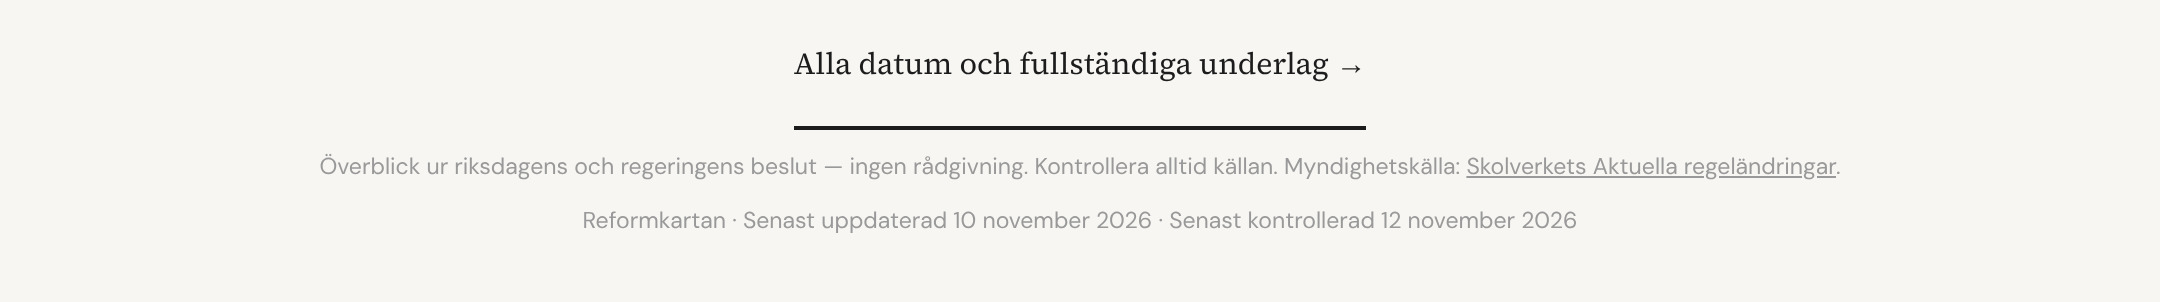
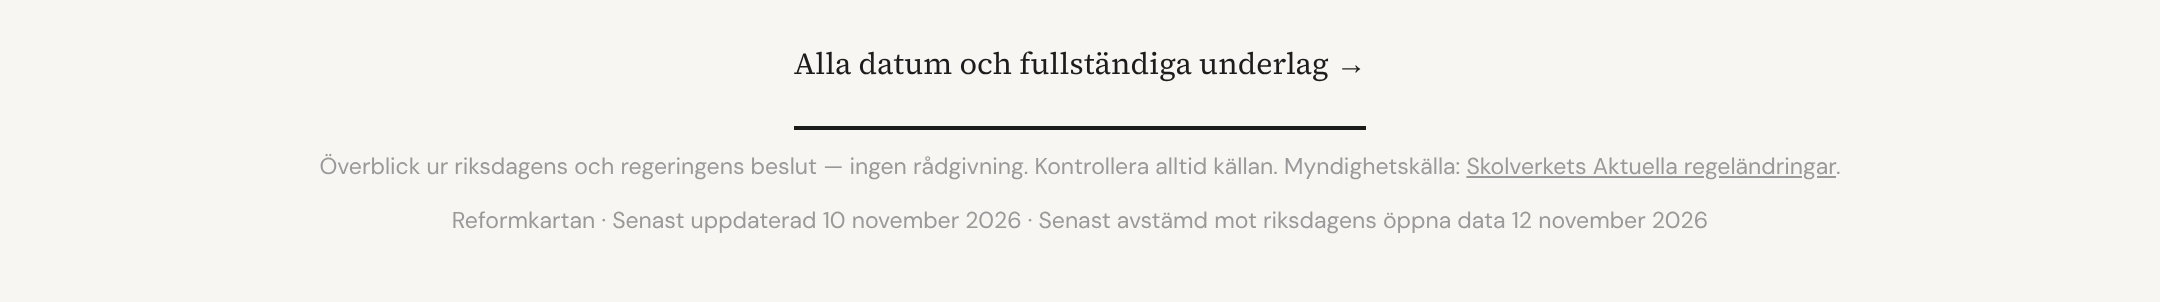
Sprint 15 T8b: uppföljningsissue vid riksdagsbeslut, accepterade matchas på typ, stämpeltext avstämd, veckorutinens bot-regel
Claude-Session: https://claude.ai/code/session_01NuE94cXGeRjKB48wbPDceU

Changed region(s): [[0.1861, 0.6854, 0.8065, 0.7748]]

diff --git a/scripts/revision/automat-github.js b/scripts/revision/automat-github.js
@@ -72,6 +72,40 @@ async function logg({ api, rapport, sha, runUrl }) {
   return nr.number;
 }
 
+// Beslut 2026-11-10 (Sprint 15, tolkning 1): varje 1a-ändring (spårad proposition → beslutad) öppnar en
+// uppföljningsissue med etiketten bevakning. Automatfilen får inte föra in SFS eller ikraftträdande (regel 2),
+// så veckorutinen gör det när lagen är utfärdad — och stänger issuen först då. Finns redan en öppen issue med
+// samma titel skapas ingen ny.
+const ETIKETT_BEVAKNING = 'bevakning';
+const uppfoljningTitel = (a) => `Uppföljning efter riksdagsbeslut: ${a.reform_namn || a.post}`;
+function uppfoljningBody(a, rapport, runUrl) {
+  const bets = (a.betankanden || []).map(b => `- bet. ${b.bet}, rskr. ${b.rskr}, beslutsdatum ${b.beslutsdatum} — ${b.url}`).join('\n');
+  return [
+    `Automatfilen förde ${rapport.datum} in riksdagsbeslutet för **${a.reform_namn || a.post}** (\`${a.post}\` i data/reforms.json) och satte status till beslutad.`, '',
+    'Mallmening som lades framför befintlig transition:', `> ${a.transition_tillagg}`, '',
+    'Riksdagens beslut:', bets || '—', '',
+    '### Att göra (veckorutinen)',
+    '- [ ] Granska `transition` och `ikraft` mot den nya mallmeningen (fält som renderas tillsammans granskas tillsammans).',
+    '- [ ] För in SFS och ikraftträdande när lagen är utfärdad (reforms.json `ikraft`/`transition`, guide.json `ikrafttradanden`/`sfs`) — SFS via riksdagen.se och lagen.nu.', '',
+    '_Veckorutinen stänger denna issue först när SFS och ikraftträdande är införda._', '',
+    `Körning: ${runUrl}`,
+  ].join('\n');
+}
+async function uppfoljning({ api, rapport, runUrl }) {
+  const ettA = (rapport.andringar || []).filter(a => a.regel === '1a');
+  if (!ettA.length) return [];
+  await api('POST', '/labels', { name: ETIKETT_BEVAKNING, color: '1d4ed8', description: 'Bevakning — triageras av veckorutinen' });
+  const oppna = await api('GET', `/issues?labels=${ETIKETT_BEVAKNING}&state=open&per_page=100`);
+  const skapade = [];
+  for (const a of ettA) {
+    const titel = uppfoljningTitel(a);
+    if ((oppna || []).some(i => i.title === titel)) continue;
+    const ny = await api('POST', '/issues', { title: titel, body: uppfoljningBody(a, rapport, runUrl), labels: [ETIKETT_BEVAKNING] });
+    skapade.push(ny.number);
+  }
+  return skapade;
+}
+
 function arg(namn) { const i = process.argv.indexOf(namn); return i > 0 ? process.argv[i + 1] : null; }
 
 if (require.main === module) {
@@ -82,9 +116,10 @@ if (require.main === module) {
       : { datum: new Date().toISOString().slice(0, 10), stopp: 'rapport saknas — automatfilen kraschade före rapporten', andringar: [], veckorutin: [], fel: [] };
     const api = klient({ token: process.env.GITHUB_TOKEN, repo: process.env.GITHUB_REPOSITORY });
     if (kommando === 'stopp') console.log('automat-stopp-issue #' + (await stopp({ api, rapport, runUrl: arg('--run-url') })).number);
+    else if (kommando === 'uppfoljning') console.log('uppföljningsissues: ' + JSON.stringify(await uppfoljning({ api, rapport, runUrl: arg('--run-url') })));
     else if (kommando === 'logg') console.log('Automatlogg #' + (await logg({ api, rapport, sha: arg('--sha'), runUrl: arg('--run-url') })));
-    else throw new Error('kommando: stopp | logg');
+    else throw new Error('kommando: stopp | logg | uppfoljning');
   })().catch(e => { console.error('automat-github FEL:', e.message); process.exit(1); });
 }
 
-module.exports = { klient, stopp, logg, stoppBody, loggBody, ETIKETT_STOPP, ETIKETT_LOGG, LOGG_TITEL };
+module.exports = { klient, stopp, logg, uppfoljning, uppfoljningTitel, uppfoljningBody, stoppBody, loggBody, ETIKETT_STOPP, ETIKETT_LOGG, LOGG_TITEL };

diff --git a/scripts/revision/automat-github.test.js b/scripts/revision/automat-github.test.js
@@ -54,3 +54,36 @@ test('HTTP-fel från GitHub kastas (arbetsflödets steg blir rött)', async () =
   const { api } = fejk({ 'POST /labels': { status: 201, body: {} }, 'POST /issues': { status: 403 } });
   await assert.rejects(G.stopp({ api, rapport: RAPPORT, runUrl: 'r' }), /HTTP 403/);
 });
+
+// Beslut 2026-11-10 (tolkning 1): 1a-ändring → uppföljningsissue med etiketten bevakning.
+const RAP_1A = { datum: '2026-11-12', andringar: [
+  { regel: '1a', post: 'vinst', reform_namn: 'Vinst i skolan', transition_tillagg: 'Riksdagen beslutade 2026-08-13 (bet. 2025/26:UbU30, rskr. 2025/26:438).',
+    betankanden: [{ bet: '2025/26:UbU30', rskr: '2025/26:438', beslutsdatum: '2026-08-13', url: 'https://data.riksdagen.se/dokument/HD01UbU30.html' }] },
+  { regel: '1b', post: 'utr-x', nytt: { nr: 'Dir. 2026:200' } },
+] };
+
+test('uppföljning: 1a skapar issue "Uppföljning efter riksdagsbeslut: {reform}" med etiketten bevakning och båda punkterna', async () => {
+  const { api, anrop } = fejk({ 'POST /labels': { status: 422 }, 'GET /issues': [], 'POST /issues': { number: 50 } });
+  assert.deepEqual(await G.uppfoljning({ api, rapport: RAP_1A, runUrl: 'run' }), [50]);
+  const skapade = anrop.filter(a => a.metod === 'POST' && a.sokvag === '/issues');
+  assert.equal(skapade.length, 1); // bara 1a, inte 1b
+  const i = skapade[0].body;
+  assert.equal(i.title, 'Uppföljning efter riksdagsbeslut: Vinst i skolan');
+  assert.deepEqual(i.labels, ['bevakning']);
+  assert.match(i.body, /- \[ \] Granska `transition` och `ikraft` mot den nya mallmeningen/);
+  assert.match(i.body, /- \[ \] För in SFS och ikraftträdande när lagen är utfärdad/);
+  assert.match(i.body, /stänger denna issue först när SFS och ikraftträdande är införda/);
+  assert.match(i.body, /rskr\. 2025\/26:438/);
+});
+
+test('uppföljning: finns redan en öppen issue med samma titel skapas ingen ny', async () => {
+  const { api, anrop } = fejk({ 'POST /labels': { status: 422 }, 'GET /issues': [{ number: 50, title: 'Uppföljning efter riksdagsbeslut: Vinst i skolan' }] });
+  assert.deepEqual(await G.uppfoljning({ api, rapport: RAP_1A, runUrl: 'run' }), []);
+  assert.equal(anrop.some(a => a.metod === 'POST' && a.sokvag === '/issues'), false);
+});
+
+test('uppföljning: inga 1a-ändringar → inga anrop alls', async () => {
+  const { api, anrop } = fejk({});
+  assert.deepEqual(await G.uppfoljning({ api, rapport: { datum: 'x', andringar: [{ regel: '1c', post: 'p' }] }, runUrl: 'r' }), []);
+  assert.equal(anrop.length, 0);
+});

diff --git a/scripts/revision/revision.test.js b/scripts/revision/revision.test.js
@@ -160,8 +160,8 @@ test('markeraAccepterade: beslutade fynd märks med skäl; ändrat källvärde g
     { fil: 'utredningar.json', post: 'utr-y', falt: 'betankanden SOU 2026:4.datum', api: '2026-01-21', typ: 'datum-avviker' },
   ] };
   const acc = { fynd: [
-    { fil: 'utredningar.json', post: 'utr-x', falt: 'betankanden SOU 2025:8.datum', api: '2025-01-29', skal: 'beslutat' },
-    { fil: 'utredningar.json', post: 'utr-y', falt: 'betankanden SOU 2026:4.datum', api: '2026-01-20', skal: 'beslutat' },
+    { fil: 'utredningar.json', post: 'utr-x', falt: 'betankanden SOU 2025:8.datum', typ: 'datum-avviker', api: '2025-01-29', skal: 'beslutat' },
+    { fil: 'utredningar.json', post: 'utr-y', falt: 'betankanden SOU 2026:4.datum', typ: 'datum-avviker', api: '2026-01-20', skal: 'beslutat' },
   ] };
   r.markeraAccepterade(rap, acc);
   assert.equal(rap.fynd[0].accepterad, 'beslutat');
@@ -169,4 +169,28 @@ test('markeraAccepterade: beslutade fynd märks med skäl; ändrat källvärde g
   const md = r.renderMarkdown(rap, { datum: '2026-11-10' });
   assert.match(md, /1 nya fynd, 1 accepterade/);
   assert.match(md, /## Accepterade \(redan beslutade att lämnas\)/);
+});
+
+test('markeraAccepterade: matchar på fil, post, fält, typ OCH api — annan typ eller annat källvärde ger nytt fynd', () => {
+  const bas = { fil: 'utredningar.json', post: 'utr-x', falt: 'betankanden SOU 2025:8.datum', typ: 'datum-avviker', api: '2025-01-29' };
+  const acc = { fynd: [{ ...bas, skal: 'beslutat' }] };
+  const fall = [
+    [{ ...bas }, 'beslutat'],
+    [{ ...bas, api: '2025-01-30' }, undefined],            // källvärdet ändrat
+    [{ ...bas, typ: 'sou-saknas-i-api' }, undefined],     // annan typ
+    [{ ...bas, falt: 'betankanden SOU 2025:8.typ' }, undefined],
+    [{ ...bas, post: 'utr-z' }, undefined],
+    [{ ...bas, fil: 'reforms.json' }, undefined],
+  ];
+  for (const [f, vant] of fall) {
+    const rap = { fynd: [f] };
+    r.markeraAccepterade(rap, acc);
+    assert.equal(rap.fynd[0].accepterad, vant, JSON.stringify(f));
+  }
+});
+
+test('accepterade.json: alla 22 poster matchar dagens fynd från Sprint 14 (fil, post, fält, typ, api finns)', () => {
+  const acc = require('../../docs/automat/accepterade.json');
+  assert.equal(acc.fynd.length, 22);
+  for (const a of acc.fynd) for (const k of ['fil', 'post', 'falt', 'typ', 'api', 'skal']) assert.ok(k in a, `${a.post} saknar ${k}`);
 });

diff --git a/andringar.html b/andringar.html
@@ -215,7 +215,8 @@ document.querySelector('.tab-nav a.active') && document.querySelector('.tab-nav 
    utan new Date()-tidszontolkning (parsar strängen manuellt). Tyst fallback:
    kan filen inte läsas visas ingen stämpel — hellre tyst än fel datum.
    senast_uppdaterad = senaste innehållsändring ([data-fresh], sidhuvud + sidfot).
-   senast_kontrollerad = senaste gröna körning av automatfilen ([data-kontroll], sidfot).
+   senast_kontrollerad = senaste gröna körning av automatfilen ([data-kontroll], sidfot) — visas som
+   "Senast avstämd mot riksdagens öppna data" eftersom automatfilen bara stämmer av mot den källan (T8b).
    Blocket är identiskt i alla sidor (test: scripts/revision/stampel.test.js). */
 (function(){
   var MM=['januari','februari','mars','april','maj','juni','juli','augusti','september','oktober','november','december'];
@@ -227,7 +228,7 @@ document.querySelector('.tab-nav a.active') && document.querySelector('.tab-nav 
     if(!m)return;
     var u=txt(m.senast_uppdaterad),k=txt(m.senast_kontrollerad);
     if(u)document.querySelectorAll('[data-fresh]').forEach(function(el){el.textContent=' · Senast uppdaterad '+u;});
-    if(k)document.querySelectorAll('[data-kontroll]').forEach(function(el){el.textContent=' · Senast kontrollerad '+k;});
+    if(k)document.querySelectorAll('[data-kontroll]').forEach(function(el){el.textContent=' · Senast avstämd mot riksdagens öppna data '+k;});
   }).catch(function(){});
 })();
 </script>

diff --git a/guide-alla.html b/guide-alla.html
@@ -880,7 +880,8 @@ document.querySelector('.tab-nav a.active')?.scrollIntoView({ inline: 'center', 
    utan new Date()-tidszontolkning (parsar strängen manuellt). Tyst fallback:
    kan filen inte läsas visas ingen stämpel — hellre tyst än fel datum.
    senast_uppdaterad = senaste innehållsändring ([data-fresh], sidhuvud + sidfot).
-   senast_kontrollerad = senaste gröna körning av automatfilen ([data-kontroll], sidfot).
+   senast_kontrollerad = senaste gröna körning av automatfilen ([data-kontroll], sidfot) — visas som
+   "Senast avstämd mot riksdagens öppna data" eftersom automatfilen bara stämmer av mot den källan (T8b).
    Blocket är identiskt i alla sidor (test: scripts/revision/stampel.test.js). */
 (function(){
   var MM=['januari','februari','mars','april','maj','juni','juli','augusti','september','oktober','november','december'];
@@ -892,7 +893,7 @@ document.querySelector('.tab-nav a.active')?.scrollIntoView({ inline: 'center', 
     if(!m)return;
     var u=txt(m.senast_uppdaterad),k=txt(m.senast_kontrollerad);
     if(u)document.querySelectorAll('[data-fresh]').forEach(function(el){el.textContent=' · Senast uppdaterad '+u;});
-    if(k)document.querySelectorAll('[data-kontroll]').forEach(function(el){el.textContent=' · Senast kontrollerad '+k;});
+    if(k)document.querySelectorAll('[data-kontroll]').forEach(function(el){el.textContent=' · Senast avstämd mot riksdagens öppna data '+k;});
   }).catch(function(){});
 })();
 </script>

diff --git a/guide.html b/guide.html
@@ -881,7 +881,8 @@ document.querySelector('.tab-nav a.active')?.scrollIntoView({ inline: 'center', 
    utan new Date()-tidszontolkning (parsar strängen manuellt). Tyst fallback:
    kan filen inte läsas visas ingen stämpel — hellre tyst än fel datum.
    senast_uppdaterad = senaste innehållsändring ([data-fresh], sidhuvud + sidfot).
-   senast_kontrollerad = senaste gröna körning av automatfilen ([data-kontroll], sidfot).
+   senast_kontrollerad = senaste gröna körning av automatfilen ([data-kontroll], sidfot) — visas som
+   "Senast avstämd mot riksdagens öppna data" eftersom automatfilen bara stämmer av mot den källan (T8b).
    Blocket är identiskt i alla sidor (test: scripts/revision/stampel.test.js). */
 (function(){
   var MM=['januari','februari','mars','april','maj','juni','juli','augusti','september','oktober','november','december'];
@@ -893,7 +894,7 @@ document.querySelector('.tab-nav a.active')?.scrollIntoView({ inline: 'center', 
     if(!m)return;
     var u=txt(m.senast_uppdaterad),k=txt(m.senast_kontrollerad);
     if(u)document.querySelectorAll('[data-fresh]').forEach(function(el){el.textContent=' · Senast uppdaterad '+u;});
-    if(k)document.querySelectorAll('[data-kontroll]').forEach(function(el){el.textContent=' · Senast kontrollerad '+k;});
+    if(k)document.querySelectorAll('[data-kontroll]').forEach(function(el){el.textContent=' · Senast avstämd mot riksdagens öppna data '+k;});
   }).catch(function(){});
 })();
 </script>

diff --git a/index.html b/index.html
@@ -1679,7 +1679,8 @@ window.addEventListener("resize", () => { drawConnections(); });
    utan new Date()-tidszontolkning (parsar strängen manuellt). Tyst fallback:
    kan filen inte läsas visas ingen stämpel — hellre tyst än fel datum.
    senast_uppdaterad = senaste innehållsändring ([data-fresh], sidhuvud + sidfot).
-   senast_kontrollerad = senaste gröna körning av automatfilen ([data-kontroll], sidfot).
+   senast_kontrollerad = senaste gröna körning av automatfilen ([data-kontroll], sidfot) — visas som
+   "Senast avstämd mot riksdagens öppna data" eftersom automatfilen bara stämmer av mot den källan (T8b).
    Blocket är identiskt i alla sidor (test: scripts/revision/stampel.test.js). */
 (function(){
   var MM=['januari','februari','mars','april','maj','juni','juli','augusti','september','oktober','november','december'];
@@ -1691,7 +1692,7 @@ window.addEventListener("resize", () => { drawConnections(); });
     if(!m)return;
     var u=txt(m.senast_uppdaterad),k=txt(m.senast_kontrollerad);
     if(u)document.querySelectorAll('[data-fresh]').forEach(function(el){el.textContent=' · Senast uppdaterad '+u;});
-    if(k)document.querySelectorAll('[data-kontroll]').forEach(function(el){el.textContent=' · Senast kontrollerad '+k;});
+    if(k)document.querySelectorAll('[data-kontroll]').forEach(function(el){el.textContent=' · Senast avstämd mot riksdagens öppna data '+k;});
   }).catch(function(){});
 })();
 </script>

diff --git a/reformer.html b/reformer.html
@@ -1126,7 +1126,8 @@ window.addEventListener('load', loadData);
    utan new Date()-tidszontolkning (parsar strängen manuellt). Tyst fallback:
    kan filen inte läsas visas ingen stämpel — hellre tyst än fel datum.
    senast_uppdaterad = senaste innehållsändring ([data-fresh], sidhuvud + sidfot).
-   senast_kontrollerad = senaste gröna körning av automatfilen ([data-kontroll], sidfot).
+   senast_kontrollerad = senaste gröna körning av automatfilen ([data-kontroll], sidfot) — visas som
+   "Senast avstämd mot riksdagens öppna data" eftersom automatfilen bara stämmer av mot den källan (T8b).
    Blocket är identiskt i alla sidor (test: scripts/revision/stampel.test.js). */
 (function(){
   var MM=['januari','februari','mars','april','maj','juni','juli','augusti','september','oktober','november','december'];
@@ -1138,7 +1139,7 @@ window.addEventListener('load', loadData);
     if(!m)return;
     var u=txt(m.senast_uppdaterad),k=txt(m.senast_kontrollerad);
     if(u)document.querySelectorAll('[data-fresh]').forEach(function(el){el.textContent=' · Senast uppdaterad '+u;});
-    if(k)document.querySelectorAll('[data-kontroll]').forEach(function(el){el.textContent=' · Senast kontrollerad '+k;});
+    if(k)document.querySelectorAll('[data-kontroll]').forEach(function(el){el.textContent=' · Senast avstämd mot riksdagens öppna data '+k;});
   }).catch(function(){});
 })();
 </script>

diff --git a/tidslinje.html b/tidslinje.html
@@ -1075,7 +1075,8 @@ window.addEventListener('load',loadData);
    utan new Date()-tidszontolkning (parsar strängen manuellt). Tyst fallback:
    kan filen inte läsas visas ingen stämpel — hellre tyst än fel datum.
    senast_uppdaterad = senaste innehållsändring ([data-fresh], sidhuvud + sidfot).
-   senast_kontrollerad = senaste gröna körning av automatfilen ([data-kontroll], sidfot).
+   senast_kontrollerad = senaste gröna körning av automatfilen ([data-kontroll], sidfot) — visas som
+   "Senast avstämd mot riksdagens öppna data" eftersom automatfilen bara stämmer av mot den källan (T8b).
    Blocket är identiskt i alla sidor (test: scripts/revision/stampel.test.js). */
 (function(){
   var MM=['januari','februari','mars','april','maj','juni','juli','augusti','september','oktober','november','december'];
@@ -1087,7 +1088,7 @@ window.addEventListener('load',loadData);
     if(!m)return;
     var u=txt(m.senast_uppdaterad),k=txt(m.senast_kontrollerad);
     if(u)document.querySelectorAll('[data-fresh]').forEach(function(el){el.textContent=' · Senast uppdaterad '+u;});
-    if(k)document.querySelectorAll('[data-kontroll]').forEach(function(el){el.textContent=' · Senast kontrollerad '+k;});
+    if(k)document.querySelectorAll('[data-kontroll]').forEach(function(el){el.textContent=' · Senast avstämd mot riksdagens öppna data '+k;});
   }).catch(function(){});
 })();
 </script>

diff --git a/uppdrag.html b/uppdrag.html
@@ -764,7 +764,8 @@ window.addEventListener('load', loadData);
    utan new Date()-tidszontolkning (parsar strängen manuellt). Tyst fallback:
    kan filen inte läsas visas ingen stämpel — hellre tyst än fel datum.
    senast_uppdaterad = senaste innehållsändring ([data-fresh], sidhuvud + sidfot).
-   senast_kontrollerad = senaste gröna körning av automatfilen ([data-kontroll], sidfot).
+   senast_kontrollerad = senaste gröna körning av automatfilen ([data-kontroll], sidfot) — visas som
+   "Senast avstämd mot riksdagens öppna data" eftersom automatfilen bara stämmer av mot den källan (T8b).
    Blocket är identiskt i alla sidor (test: scripts/revision/stampel.test.js). */
 (function(){
   var MM=['januari','februari','mars','april','maj','juni','juli','augusti','september','oktober','november','december'];
@@ -776,7 +777,7 @@ window.addEventListener('load', loadData);
     if(!m)return;
     var u=txt(m.senast_uppdaterad),k=txt(m.senast_kontrollerad);
     if(u)document.querySelectorAll('[data-fresh]').forEach(function(el){el.textContent=' · Senast uppdaterad '+u;});
-    if(k)document.querySelectorAll('[data-kontroll]').forEach(function(el){el.textContent=' · Senast kontrollerad '+k;});
+    if(k)document.querySelectorAll('[data-kontroll]').forEach(function(el){el.textContent=' · Senast avstämd mot riksdagens öppna data '+k;});
   }).catch(function(){});
 })();
 </script>

diff --git a/utredningar.html b/utredningar.html
@@ -910,7 +910,8 @@ window.addEventListener('load', loadData);
    utan new Date()-tidszontolkning (parsar strängen manuellt). Tyst fallback:
    kan filen inte läsas visas ingen stämpel — hellre tyst än fel datum.
    senast_uppdaterad = senaste innehållsändring ([data-fresh], sidhuvud + sidfot).
-   senast_kontrollerad = senaste gröna körning av automatfilen ([data-kontroll], sidfot).
+   senast_kontrollerad = senaste gröna körning av automatfilen ([data-kontroll], sidfot) — visas som
+   "Senast avstämd mot riksdagens öppna data" eftersom automatfilen bara stämmer av mot den källan (T8b).
    Blocket är identiskt i alla sidor (test: scripts/revision/stampel.test.js). */
 (function(){
   var MM=['januari','februari','mars','april','maj','juni','juli','augusti','september','oktober','november','december'];
@@ -922,7 +923,7 @@ window.addEventListener('load', loadData);
     if(!m)return;
     var u=txt(m.senast_uppdaterad),k=txt(m.senast_kontrollerad);
     if(u)document.querySelectorAll('[data-fresh]').forEach(function(el){el.textContent=' · Senast uppdaterad '+u;});
-    if(k)document.querySelectorAll('[data-kontroll]').forEach(function(el){el.textContent=' · Senast kontrollerad '+k;});
+    if(k)document.querySelectorAll('[data-kontroll]').forEach(function(el){el.textContent=' · Senast avstämd mot riksdagens öppna data '+k;});
   }).catch(function(){});
 })();
 </script>

diff --git a/scripts/revision/stampel.test.js b/scripts/revision/stampel.test.js
@@ -35,7 +35,15 @@ test('stämpellogiken: båda datumen, bara uppdaterad, och ogiltigt datum ger in
     return [el.fresh.textContent, el.kontroll.textContent];
   }
   assert.deepEqual(await kor({ senast_uppdaterad: '2026-11-10', senast_kontrollerad: '2026-11-12' }),
-    [' · Senast uppdaterad 10 november 2026', ' · Senast kontrollerad 12 november 2026']);
+    [' · Senast uppdaterad 10 november 2026', ' · Senast avstämd mot riksdagens öppna data 12 november 2026']);
   assert.deepEqual(await kor({ senast_uppdaterad: '2026-11-10' }), [' · Senast uppdaterad 10 november 2026', '']);
   assert.deepEqual(await kor({ senast_uppdaterad: '2026-11-10', senast_kontrollerad: 'igår' }), [' · Senast uppdaterad 10 november 2026', '']);
+});
+
+test('T8b: texten är "Senast avstämd mot riksdagens öppna data" — "Senast kontrollerad" förekommer inte på någon sida', () => {
+  for (const s of SIDOR) {
+    const html = fs.readFileSync(path.join(ROOT, s), 'utf8');
+    assert.match(html, /Senast avstämd mot riksdagens öppna data /, s);
+    assert.doesNotMatch(html, /Senast kontrollerad/, s);
+  }
 });
